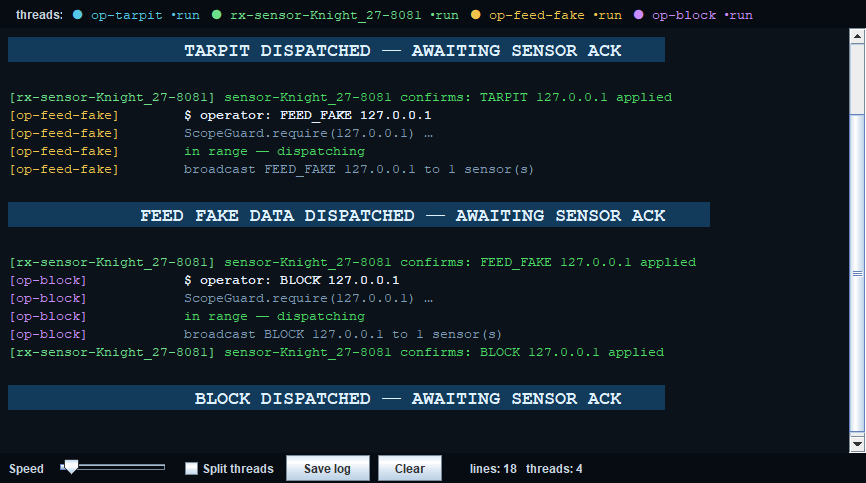
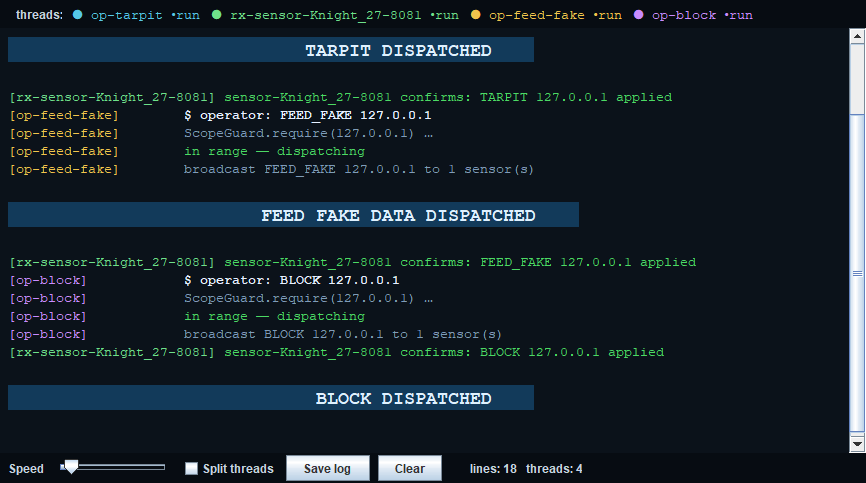
docs(figures): redraw the live figures after the wave 2 fixes
Regenerated by the GUI dry run (28/28): Figure 9 lists the admin page's files
(FB-06), Figure 11 reads "... DISPATCHED" (FB-10), Figure 13 shows all seven
counter panes in a grid (FB-03/FB-07), and the dashboard figures use the
FB-04 layout. DEMO step 5 names the single counter's two panes.

Changed region(s): [[0.1559, 0.4037, 0.8418, 0.4969], [0.2182, 0.7764, 0.7794, 0.8696], [0.2182, 0.0621, 0.7794, 0.1553]]

diff --git a/DEMO.md b/DEMO.md
@@ -80,7 +80,7 @@ answers from the popup.
 | --- | --- | --- |
 | Defender | Popup → **Counter-attack** | A counter shell: the Console mirrors the attacker's own technique back at Laptop B, `in range — mirroring …` |
 | Attacker | (nothing) | The counter-watch window flashes **INCOMING COUNTER-ATTACK** with each connection's source port and payload |
-| Defender | Popup → **Simultaneous counter** | The counter shell splits: one pane per counter thread (`op-counter-all`, `op-port-scan`, `op-brute-force`, `op-password-spray`, `op-honeytoken-replay`), all at once, next to the earlier single counter's `op-mirror-…` pane. The bounded set of four methods is not a flood |
+| Defender | Popup → **Simultaneous counter** | The counter shell splits: one pane per counter thread (`op-counter-all`, `op-port-scan`, `op-brute-force`, `op-password-spray`, `op-honeytoken-replay`), all at once, next to the earlier single counter's panes (`op-counter`, `op-mirror-…`). The bounded set of four methods is not a flood |
 | Attacker | (nothing) | More `INCOMING` lines. The probes end in `NO REPLY`, because the counter-watch only listens and logs |
 
 Talking point: every counter goes through the same `ScopeGuard` as everything else. It can
